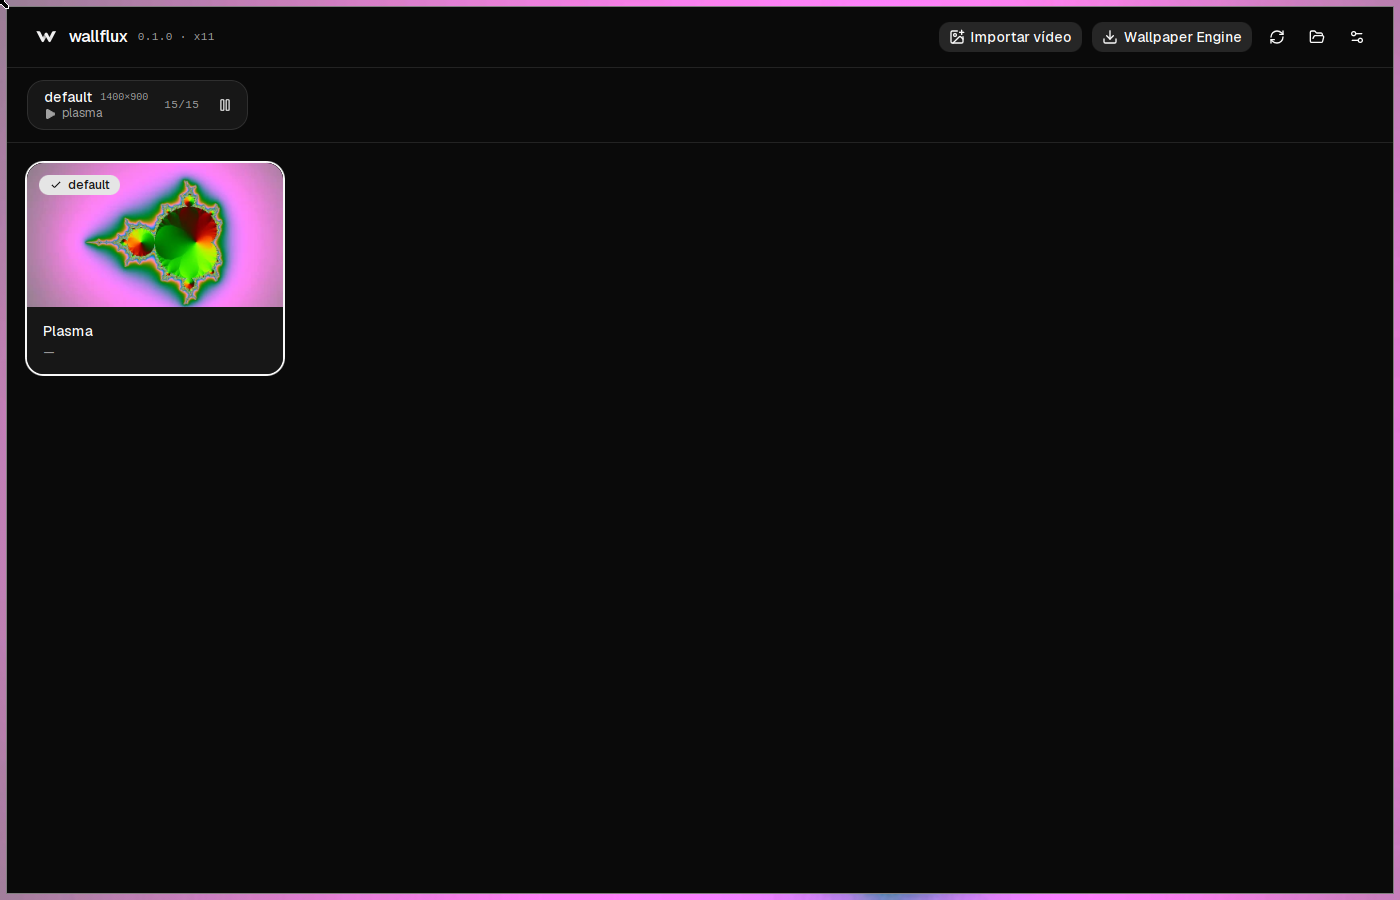
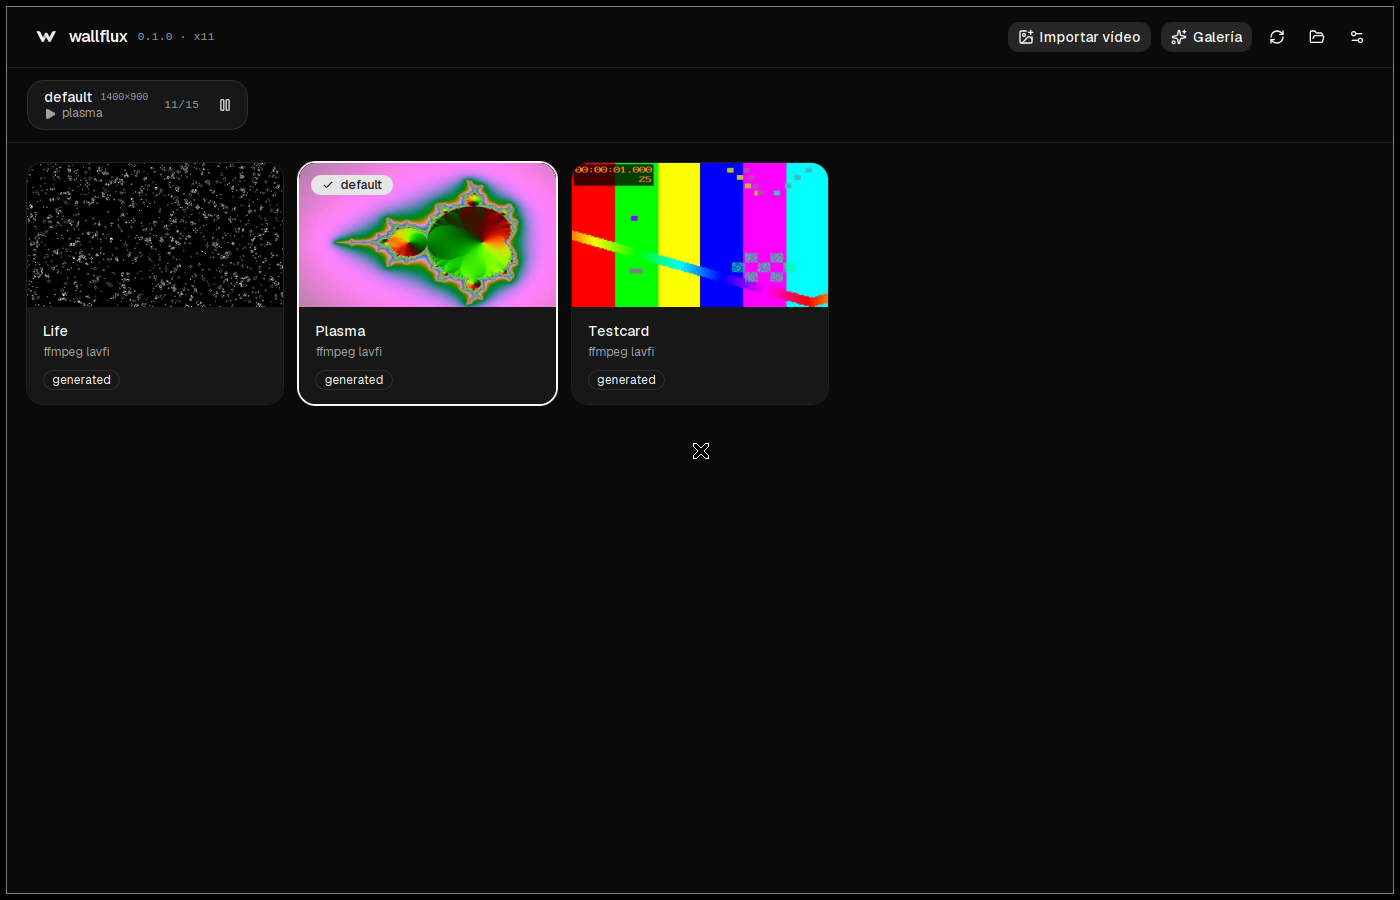
docs: document the gallery, and say plainly what wallflux will not do
Replaces the Wallpaper Engine section. States the reason for its absence
once, in the place someone would go looking for it: the catalogue is paid,
account-gated Workshop content, and fetching it without owning the app means
circumventing that gate.

Also fixes a layout bug found by screenshotting the gallery in the nested
session: the grid stretched every card to the height of the tallest in its
row, and the preview, being the flexible child, grew with it instead of
keeping its 16:9.

Changed region(s): [[0.0, 0.0, 1.0, 1.0]]

diff --git a/gui/src/components/Gallery.tsx b/gui/src/components/Gallery.tsx
@@ -192,7 +192,10 @@ export function Gallery({
 
 function Grid({ children }: { children: React.ReactNode }) {
   return (
-    <div className="grid grid-cols-[repeat(auto-fill,minmax(210px,1fr))] gap-4">
+    // items-start: sin esto el grid estira cada tarjeta a la altura de la
+    // más alta de su fila, y como la imagen es el hijo flexible acaba
+    // creciendo con ella en vez de respetar su 16:9.
+    <div className="grid grid-cols-[repeat(auto-fill,minmax(210px,1fr))] items-start gap-4">
       {children}
     </div>
   );
@@ -212,7 +215,7 @@ function GalleryCard({
   const [broken, setBroken] = useState(false);
   return (
     <div className="flex flex-col overflow-hidden rounded-xl border bg-card">
-      <div className="relative aspect-video w-full bg-black">
+      <div className="relative aspect-video w-full shrink-0 overflow-hidden bg-black">
         {item.preview_url && !broken ? (
           <img
             src={item.preview_url}

diff --git a/README.md b/README.md
@@ -42,7 +42,8 @@ wallflux es la versión libre y pequeña de la parte útil:
   TOML y un vídeo. Sin base de datos, sin cifrado, sin cuenta.
 - **Interfaz gráfica, CLI y socket.** Usa la que te encaje; las tres mandan
   sobre el mismo daemon.
-- **Importa desde Wallpaper Engine** los fondos de vídeo que ya tengas.
+- **Una galería integrada** de fondos libres, que se descargan con un clic
+  sin cuenta ni configuración.
 
 ## Estado
 
@@ -55,7 +56,7 @@ Alpha, y lo dice de frente:
 | Fondos de vídeo | Funcionan |
 | Fondos de shader (tipo Shadertoy) y web | Sin empezar; el formato de paquete les reserva sitio |
 | Interfaz gráfica | Funciona: biblioteca, destino por salida, ajustes en vivo |
-| Importar de Wallpaper Engine | Solo elementos de vídeo; ver más abajo |
+| Galería en línea | Funciona: catálogo curado, y Pexels con clave propia |
 
 ## Cómo funciona
 
@@ -221,49 +222,57 @@ fondo puesto desde `wallfluxctl` aparece aquí y al revés. Conviene saber:
   la ruta, el tamaño y la fecha del origen, de modo que recodificar un vídeo
   invalida su miniatura sin que nadie tenga que limpiar nada.
 
-## Importar desde Wallpaper Engine
+## La galería
 
-Si ya tienes Wallpaper Engine, wallflux puede coger los fondos de **vídeo** de
-tu carpeta del taller de Steam. Desde la interfaz, el botón *Wallpaper Engine*
-abre un explorador con todo lo que hay, importable o no:
+Si no tienes vídeos a mano, wallflux trae una galería de fondos de libre
+distribución. Sin cuenta, sin clave y sin instalar nada: el botón *Galería*
+abre el catálogo y un clic descarga el fondo a tu biblioteca.
 
 <p align="center">
-  <img src="docs/gui-engine.png" alt="El explorador de Wallpaper Engine: una rejilla con las vistas previas del taller de Steam, cada una con su tipo, botón de importar en las de vídeo y el motivo en gris en las que no se pueden importar" width="900">
+  <img src="docs/gui-gallery.png" alt="La galería: una rejilla de fondos libres con su resolución, su licencia, enlace a la ficha original y un botón de descarga" width="900">
 </p>
 
-Desde la terminal:
-
 ```sh
-$ wallfluxctl import-engine --list
-ID DEL TALLER  TIPO         TÍTULO                             ESTADO
-2222           scene        Fancy Particles                    las escenas usan un formato .pkg propietario
-3333           web          HTML Clock                         los fondos web aún no están soportados
-1111           video        Neon Drive                         se puede importar
-4444           video        Ocean Loop                         se puede importar
-
-2 de 4 elemento(s) se pueden importar.
-
-$ wallfluxctl import-engine --all
+wallfluxctl gallery                      # listar
+wallfluxctl gallery aurora               # filtrar
+wallfluxctl gallery --get commons-40304660
 ```
 
-Lee el `project.json`, copia el vídeo y su vista previa a tu biblioteca,
-escribe un manifiesto de wallflux con el título y las etiquetas originales, y
-pide al daemon en marcha que reescanee. Steam se busca en las rutas
-habituales; `--from <carpeta>` cubre una instalación fuera de lo común.
+Dos fuentes, y ninguna obligatoria:
 
-Qué se puede y qué no, por tipo de fondo:
+**El catálogo curado.** Un JSON versionado en este repositorio. No se escribe
+a mano: lo genera [`catalog/build.py`](catalog/build.py) desde la API abierta
+de Wikimedia Commons, filtrando a vídeo con licencia permisiva (CC0, CC BY,
+CC BY-SA o dominio público), resolución mínima de 1280 y un tamaño que no
+tarde una eternidad en bajar. **Cada URL se comprueba con una petición HEAD
+antes de entrar**, así que el fichero publicado no tiene enlaces rotos.
+Regenerarlo o ampliarlo es un comando:
 
-| Tipo | ¿Soportado? | Por qué |
-| --- | --- | --- |
-| `video` | **Sí** | Es un mp4 o webm normal junto al manifiesto |
-| `scene` | No | Un `.pkg` binario propietario. No hay especificación contra la que implementar, y adivinarla no es un objetivo del proyecto |
-| `web` | Todavía no | HTML y JavaScript; posible más adelante con una superficie de webview |
-| `application` | No | Un ejecutable, y no es algo que una herramienta de fondos deba lanzar |
+```sh
+./catalog/build.py > catalog/catalog.json
+```
 
-Los elementos se **copian**, no se enlazan: darte de baja en Steam borra la
-carpeta del taller, y una biblioteca llena de enlaces rotos es peor sorpresa
-que el espacio en disco. No se descarga nada y nada sale de tu máquina: esto
-solo lee ficheros que ya tienes.
+Hoy son trece fondos y pesan hacia el cielo nocturno, que es lo que Commons
+tiene en vídeo. Crecerá a base de pull requests — y de ahí la segunda fuente.
+
+**Pexels**, si pones tu clave gratuita en los ajustes o en
+`gallery.pexels_api_key`. Añade miles de vídeos y una búsqueda de verdad. Es
+estrictamente una mejora: sin clave la galería funciona entera. No hay
+ninguna clave en este repositorio a propósito — una clave subida a un repo
+público es la clave de todo el mundo, y dura hasta que la revocan.
+
+Cada descarga deja un paquete normal con su manifiesto, y ahí queda escrito
+el autor, la licencia y el enlace a la ficha original. CC BY y CC BY-SA
+piden atribución: si publicas una captura de tu escritorio, el crédito sale
+de ahí.
+
+### Sobre Wallpaper Engine
+
+wallflux **no** descarga fondos de Wallpaper Engine. Su catálogo vive en el
+Taller de Steam bajo una aplicación de pago, y las únicas formas de sacarlo
+sin tenerla funcionan saltándose ese control de acceso. No es una limitación
+técnica que falte resolver: es la razón por la que la galería usa fuentes de
+libre distribución.
 
 ## Actualizar
 
@@ -378,8 +387,9 @@ echo '{"kind":"status"}' | socat - UNIX-CONNECT:$XDG_RUNTIME_DIR/wallflux/daemon
 ## Estructura del repositorio
 
 ```
+catalog/                # el catálogo curado y el script que lo genera
 crates/
-├── wallflux-core/      # config, formato de paquete, tipos IPC — sin sistema de ventanas
+├── wallflux-core/      # config, formato de paquete, galería, tipos IPC
 ├── wallflux-daemon/
 │   ├── backend/        # x11.rs, wayland.rs
 │   ├── render/         # egl.rs, mpv.rs (FFI escrito a mano)
@@ -397,7 +407,7 @@ brand/                  # el logotipo y cómo regenerar el icono
 ## Desarrollo
 
 ```sh
-cargo test --workspace        # 79 tests, sin necesidad de servidor gráfico
+cargo test --workspace        # 80 tests, sin necesidad de servidor gráfico
 cargo clippy --workspace --all-targets
 ( cd gui/src-tauri && cargo test )   # 7 más para el backend de la interfaz
 ( cd gui && pnpm install --allow-build=esbuild && pnpm build )
